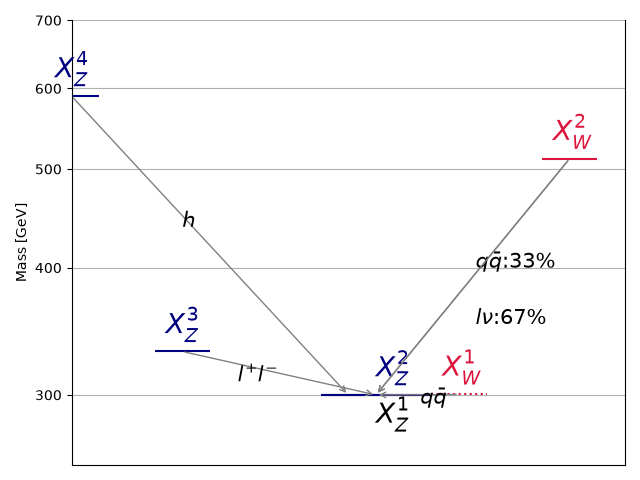
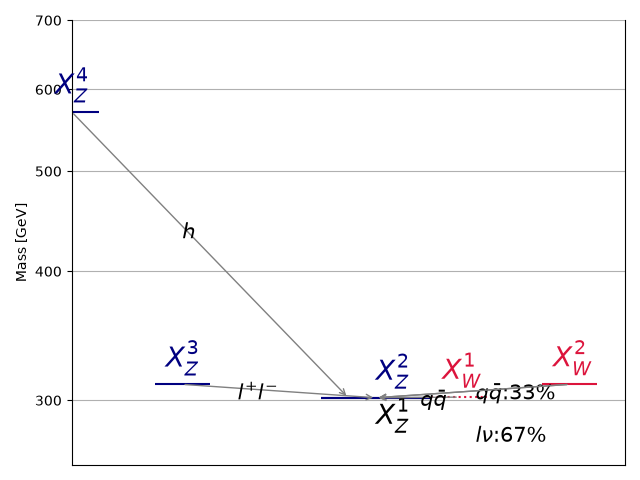
automated update by plotHiscore.py to walk322_5:     K=-81.060 TL=11.04 walkerid=556

diff --git a/protomodels/walk322_5/index.html b/protomodels/walk322_5/index.html
@@ -1,27 +1,27 @@
 <html>
 <body>
 <center>
-<table><td><h1>Current best protomodel: <i>K</i>=-81.09, <i>TL</i>=11.01</h1><td><img height=60px src=https://smodels.github.io//protomodels/logos/protomodel_lego.png></table>
+<table><td><h1>Current best protomodel: <i>K</i>=-81.06, <i>TL</i>=11.04</h1><td><img height=60px src=https://smodels.github.io//protomodels/logos/protomodel_lego.png></table>
 </center>
-<b><a href=./hiscore.slha>ProtoModel</a> <a href=./pmodel.dict>(dict)</a> produced with <a href=https://smodels.github.io//docs/Validation321>database v3.2.1</a>, allowed_extr 0.0 in walker 501 step 0.</b> <br>
+<b><a href=./hiscore.slha>ProtoModel</a> <a href=./pmodel.dict>(dict)</a> produced with <a href=https://smodels.github.io//docs/Validation321>database v3.2.1</a>, allowed_extr 0.0 in walker 556 step 26.</b> <br>
 <table width=80%>
 <tr><td>
 <br><b>Critics:</b> passed both critics<br>
 <br><b>UL Critic: 1/1 analyses exclude</b><br>
-ATLAS-EXOT-2018-06:EM12:: <span style='color: darkred;'>r<sub>obs</sub>=1.623, r<sub>exp</sub>=1.354</span><br>
-ATLAS-SUSY-2018-19:SR_EW:: <span style='color: darkgreen;'>r<sub>obs</sub>=0.481, r<sub>exp</sub>=0.469</span><br>
-CMS-EXO-20-004:SR_2018_22:: <span style='color: darkgreen;'>r<sub>obs</sub>=0.227, r<sub>exp</sub>=0.365</span><br>
-<br><b>LLHD Critic:</b> ATLAS-EXOT-2018-06:EM12, CMS-EXO-20-004:matrix.cov, ATLAS-SUSY-2018-19:SR_EW, CMS-EXO-19-010:SR_nlay5, ATLAS-SUSY-2016-06:SR_EW:: <span style='color: darkred;'>r<sub>obs</sub>=1.13, r<sub>exp</sub>=1.85</span><br>
+ATLAS-EXOT-2018-06:EM12:: <span style='color: darkred;'>r<sub>obs</sub>=1.635, r<sub>exp</sub>=1.364</span><br>
+ATLAS-SUSY-2018-19:SR_EW:: <span style='color: darkgreen;'>r<sub>obs</sub>=0.473, r<sub>exp</sub>=0.46</span><br>
+CMS-EXO-20-004:SR_2018_22:: <span style='color: darkgreen;'>r<sub>obs</sub>=0.229, r<sub>exp</sub>=0.368</span><br>
+<br><b>LLHD Critic:</b> ATLAS-EXOT-2018-06:EM12, CMS-EXO-20-004:matrix.cov, ATLAS-SUSY-2018-19:SR_EW, CMS-EXO-19-010:SR_nlay5, ATLAS-SUSY-2016-06:SR_EW:: <span style='color: darkred;'>r<sub>obs</sub>=1.14, r<sub>exp</sub>=1.85</span><br>
 </ul>
-<td><img width=600px src=./texdoc.png?1793444197>
-<br><span style='font-size: smaller; color: darkred;'>Last updated: Sat Oct 31 11:56:37 2026</span>
+<td><img width=600px src=./texdoc.png?1793445493>
+<br><span style='font-size: smaller; color: darkred;'>Last updated: Sat Oct 31 12:18:13 2026</span>
 <br><br><b>6 predictions available. Highest r values are:</b><br><ul>
-<li><a href=https://atlas.web.cern.ch/Atlas/GROUPS/PHYSICS/PAPERS/EXOT-2018-06/>ATLAS-EXOT-2018-06</a>:EM12:TChiISR r=1.62, r<sub>exp</sub>=1.35<br>
-<li><a href=https://atlas.web.cern.ch/Atlas/GROUPS/PHYSICS/PAPERS/SUSY-2018-19/>ATLAS-SUSY-2018-19</a>:SR_EW:TDTM2F r=0.48, r<sub>exp</sub>=0.47<br>
+<li><a href=https://atlas.web.cern.ch/Atlas/GROUPS/PHYSICS/PAPERS/EXOT-2018-06/>ATLAS-EXOT-2018-06</a>:EM12:TChiISR r=1.63, r<sub>exp</sub>=1.36<br>
+<li><a href=https://atlas.web.cern.ch/Atlas/GROUPS/PHYSICS/PAPERS/SUSY-2018-19/>ATLAS-SUSY-2018-19</a>:SR_EW:TDTM2F r=0.47, r<sub>exp</sub>=0.46<br>
 <li><a href=http://cms-results.web.cern.ch/cms-results/public-results/publications/EXO-20-004/>CMS-EXO-20-004</a>:SR_2018_22:TChiISR r=0.23, r<sub>exp</sub>=0.37<br>
 <li><a href=https://atlas.web.cern.ch/Atlas/GROUPS/PHYSICS/PAPERS/SUSY-2016-06/>ATLAS-SUSY-2016-06</a>:SR_EW:TDTM2F r=0.14, r<sub>exp</sub>=0.11<br>
 </table><table style="width:80%">
-<td width=40%><img height=450px src=./mass_hierarchy.png?1793444197><td width=60%><font size=-3><iframe type="text/html" height="350px" width="100%" frameborder="0" src="./rawnumbers.html?1793444197"></iframe></font>
+<td width=40%><img height=450px src=./mass_hierarchy.png?1793445493><td width=60%><font size=-3><iframe type="text/html" height="350px" width="100%" frameborder="0" src="./rawnumbers.html?1793445493"></iframe></font>
 </table>
 </body>
 </html>
